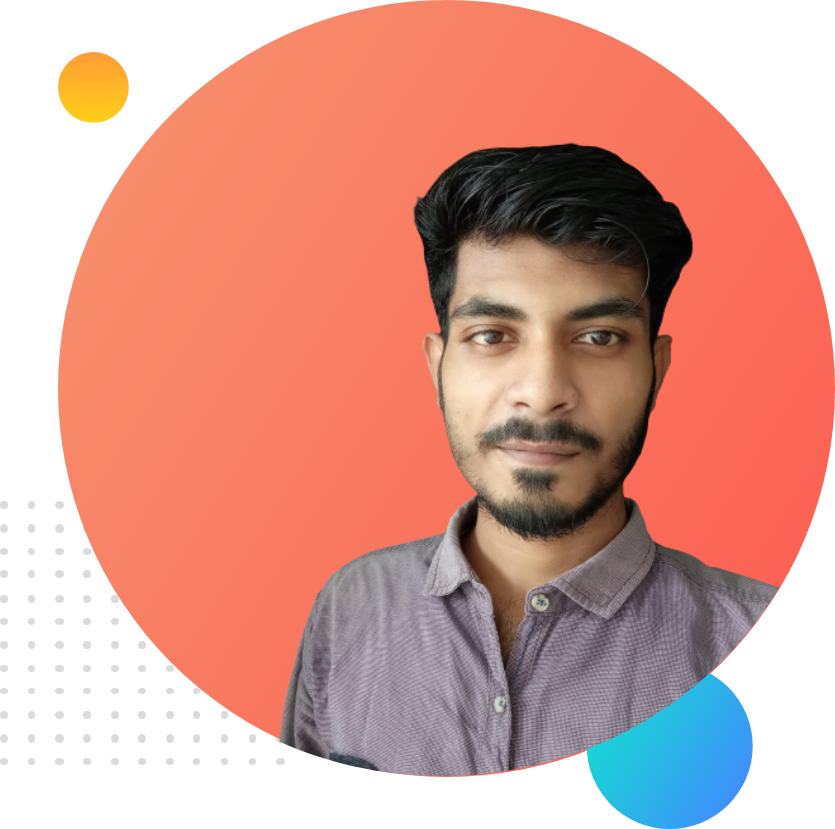
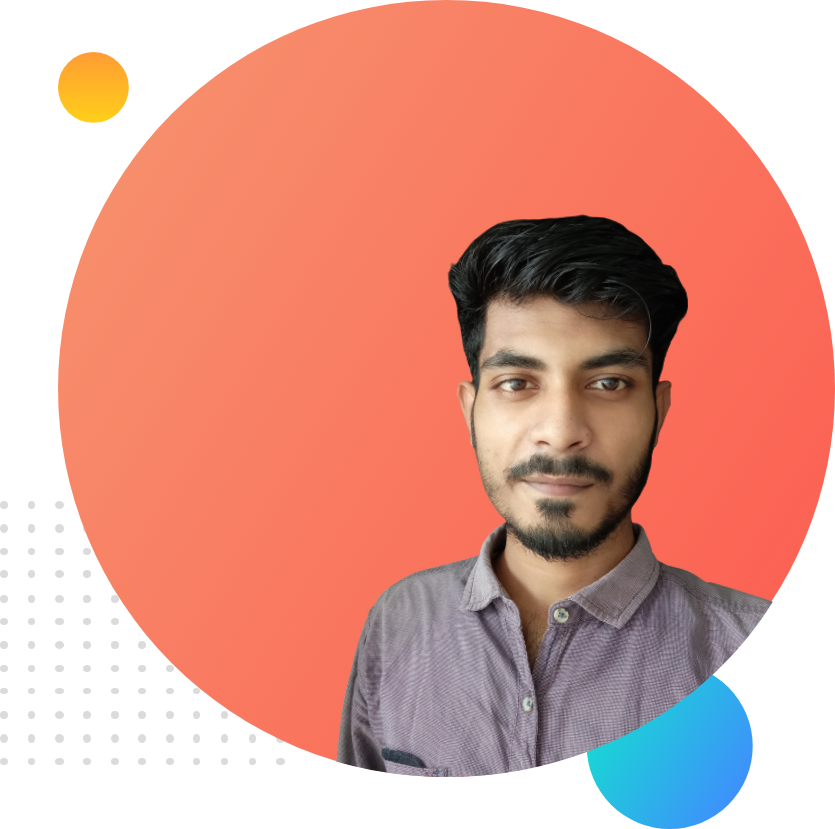
style added

Changed region(s): [[0.3114, 0.1508, 0.9341, 0.9349]]

diff --git a/index.html b/index.html
@@ -34,5 +34,23 @@
         <img src="imgs/my-bg2.png" />
       </div>
     </section>
+
+    <section class="dream">
+      <div class="half-width">
+        <img src="imgs/my-bg.png" alt="image" width="650px" height="640px" />
+      </div>
+      <div class="half-width">
+        <h1>Big Dream</h1>
+        <h4>Become a developer</h4>
+
+        <p>
+          I am a web Developer . First of all I am working as a web designer now.<br />
+          Usually I work with HTML, CSS, JavaScript. I wish in the future I would be a font-end developer<br />
+          and do various web site development. I dedicate a lot of my work to it.<br />
+          This is my big dream as a computer engineer.
+        </p>
+        <a class="link-button" target="blank" href="google.com">DOWNLOAD RESUME</a>
+      </div>
+    </section>
   </body>
 </html>

diff --git a/style.css b/style.css
@@ -10,13 +10,14 @@ h1 {
 }
 section {
   display: flex;
+  margin-bottom: 100px;
 }
 .half-width {
   width: 50%;
-  padding: 3%;
+  padding: 5%;
 }
 .half-width imgs {
-  width: 20%;
+  width: 50%;
 }
 .link-button {
   text-decoration: none;
@@ -28,5 +29,15 @@ section {
 }
 .top-bannar {
   background-image: url(imgs/top-banner.png);
+  background-repeat: no-repeat;
+}
+.half-width {
+  width: 50%;
+}
+.half-width image {
+  width: 50%;
+}
+.dream {
+  background-image: url(imgs/dream-bg.png);
   background-repeat: no-repeat;
 }
